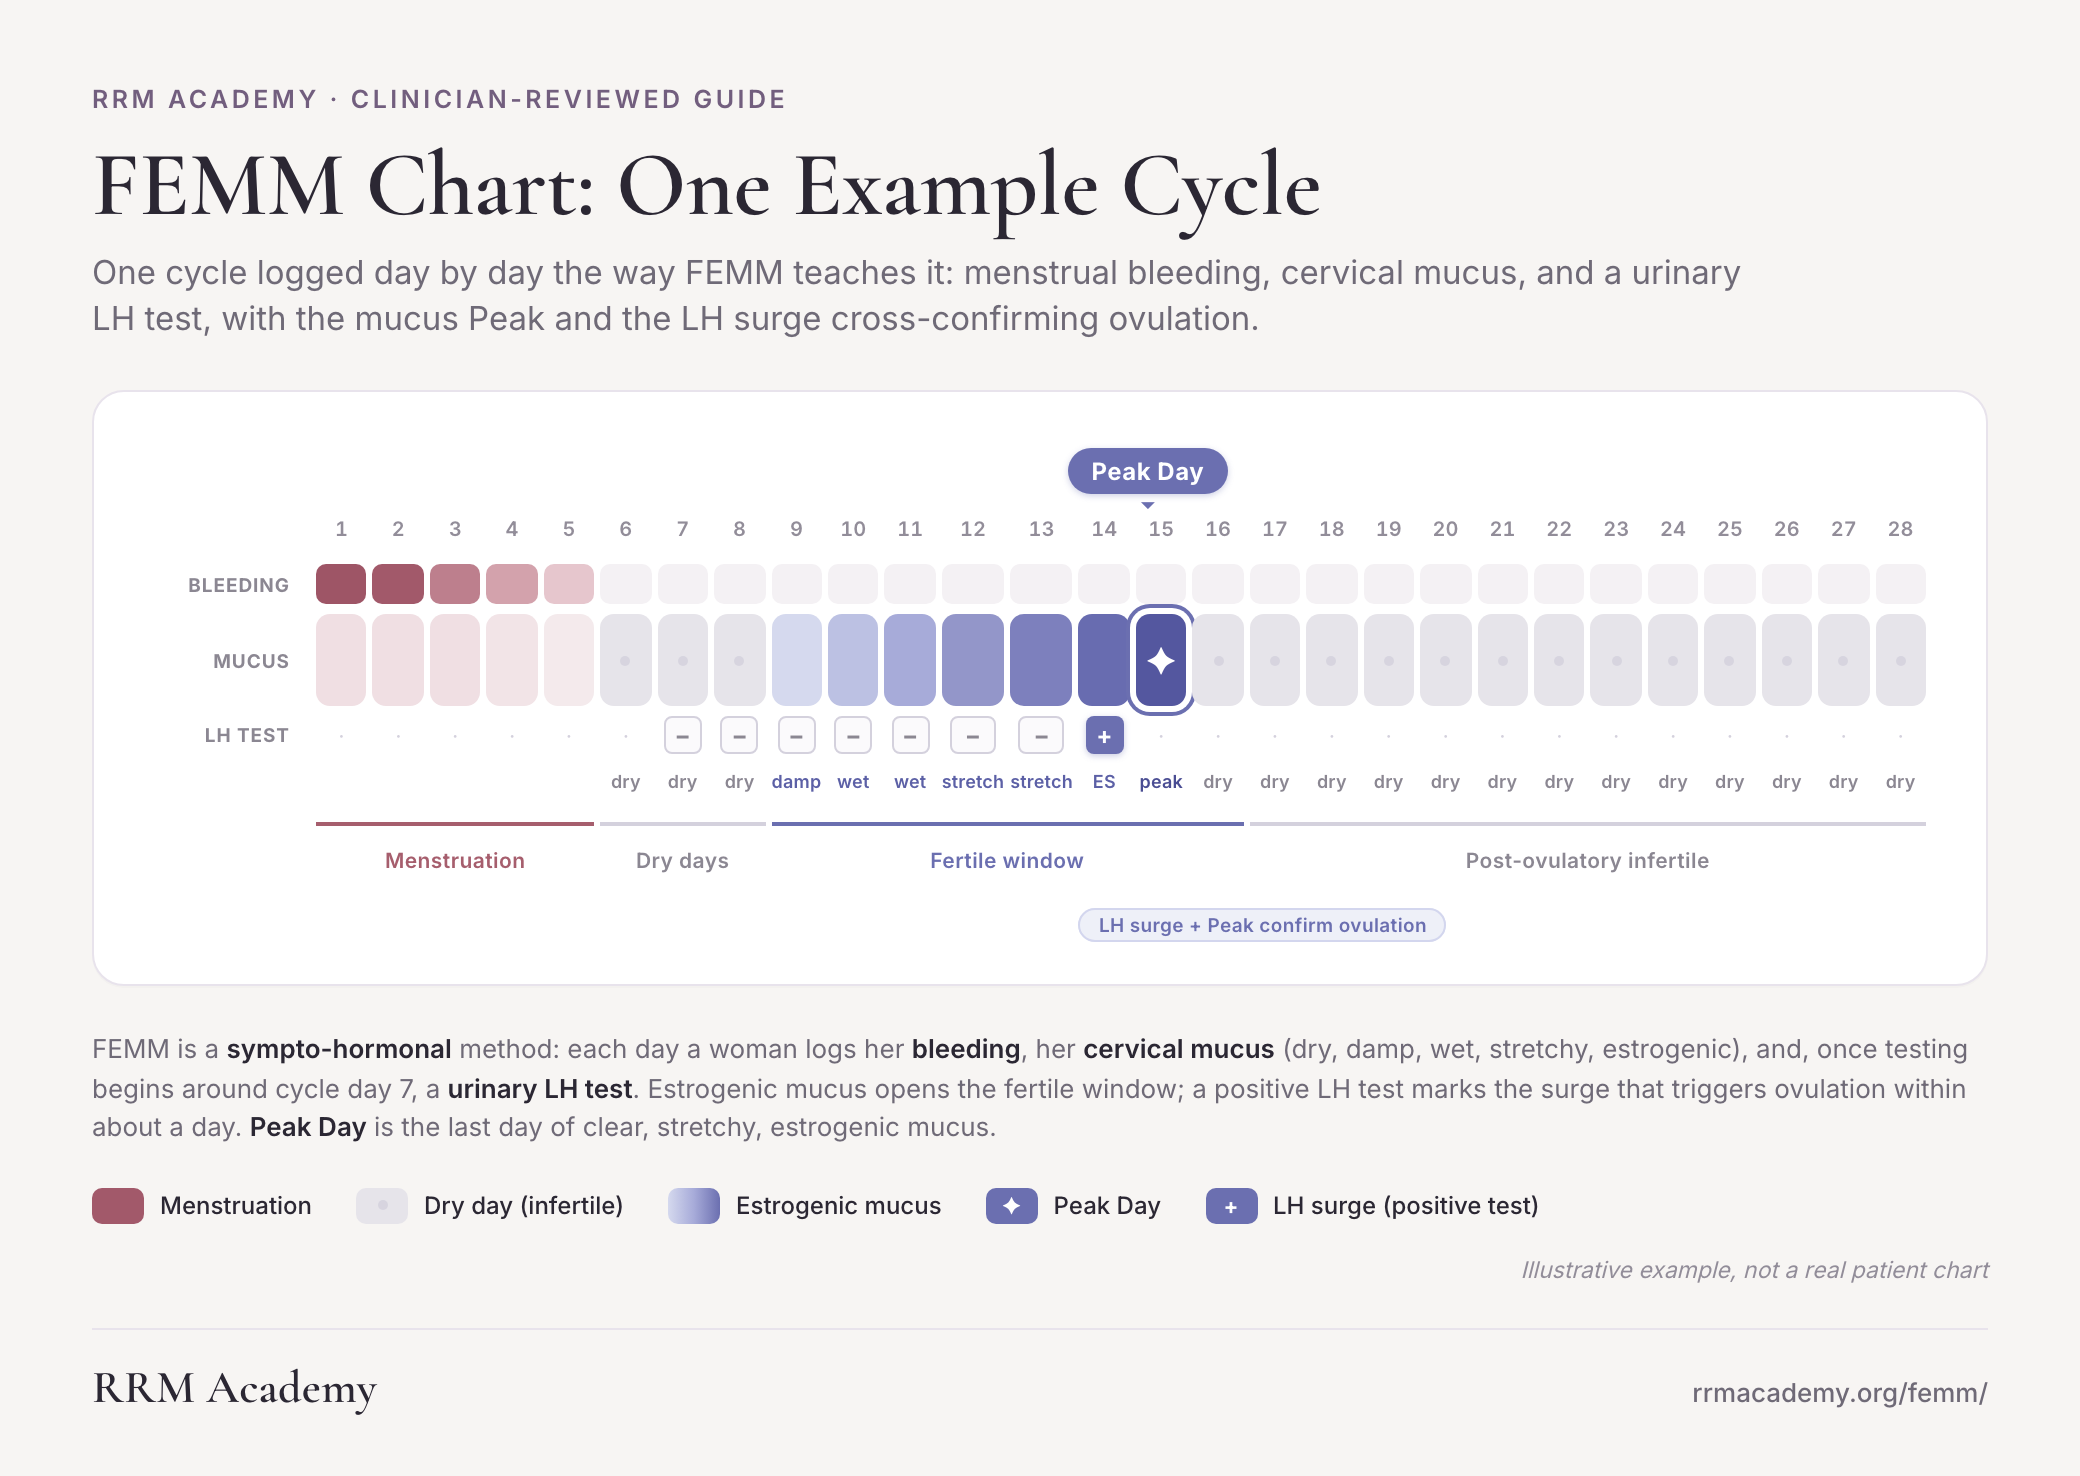
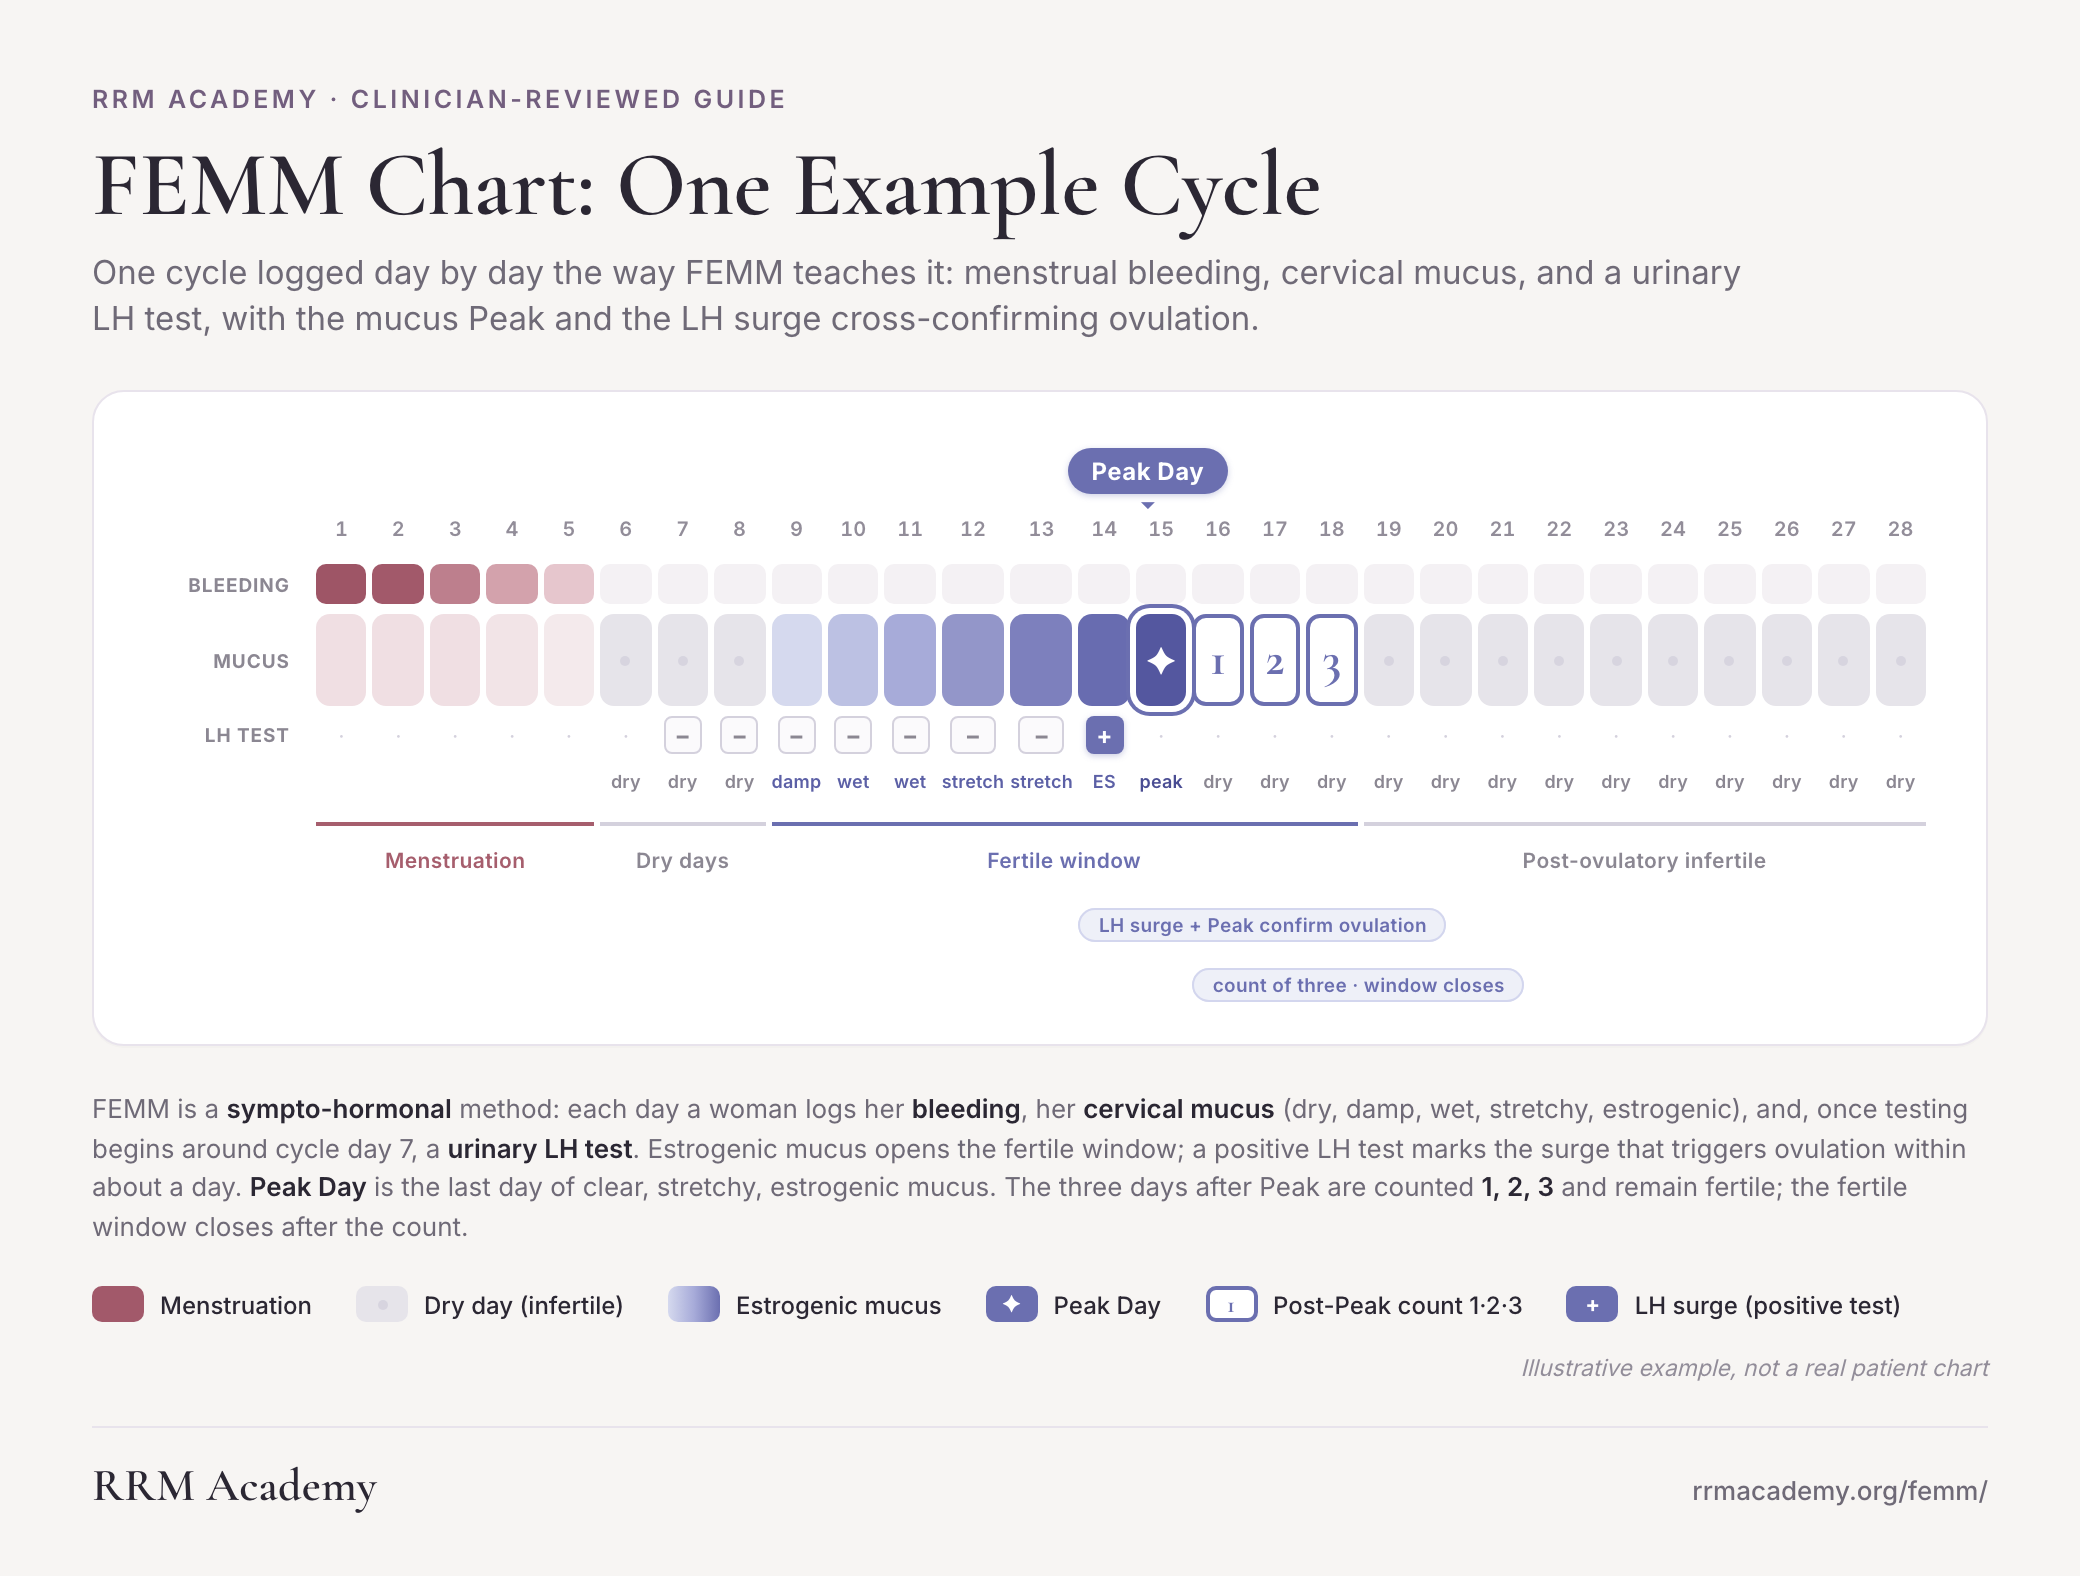
FEMM chart corrected per FEMM-teacher review (post-Peak count of three, post-ovulatory from day 19)
Review round 2 (via Erin's circle): chart omitted FEMM's count of three
after Peak and started the post-ovulatory infertile phase too early.
Fixed: count tiles 1-2-3 on days 16-18, fertile window bracket 9-18,
post-ovulatory 19-28, count pill + legend entry, caption/alt/figcaption
and internal description updated, assets re-rendered (2080x1576).

Claude-Session: https://claude.ai/code/session_014dCjP8zqmsNHfFnb3NziUY

diff --git a/docs/handoffs/assets/2026-07-10-fabm-charts/femm-chart-example.html b/docs/handoffs/assets/2026-07-10-fabm-charts/femm-chart-example.html
@@ -44,7 +44,9 @@
   .mlab{grid-row:4}
   .mtile{grid-row:4;height:46px;border-radius:7px;position:relative;display:flex;align-items:center;justify-content:center}
   .m-peak{box-shadow:0 0 0 3px #fff,0 0 0 5px var(--femm)}
+  .m-count{border:2px solid var(--femm)}
   .star{color:#fff;font-size:19px;line-height:1}
+  .badge{font-family:'Cormorant Garamond',serif;font-weight:700;font-size:24px;color:var(--femm);line-height:1}
   .ddot{width:5px;height:5px;border-radius:999px;background:var(--gray-line);opacity:.85}
 
   /* LH test row (row 5) */
@@ -70,6 +72,7 @@
   /* sub caption (row 8) */
   .cbrk{grid-row:8;margin-top:7px;text-align:center}
   .cbrk span{font-size:9.5px;font-weight:600;color:var(--femm);letter-spacing:.02em;white-space:nowrap;background:#eef0f8;border:1px solid #d3d6ee;padding:2px 9px;border-radius:999px}
+  .cbrk-b{grid-row:9;margin-top:5px}
 
   .teach{margin-top:22px;font-size:13px;line-height:1.5;color:var(--muted);max-width:955px}
   .teach b{color:var(--ink);font-weight:600}
@@ -80,6 +83,8 @@
   .sw-ramp{background:linear-gradient(90deg,#d5d9ee,#a7abd9,#6b6fb0)}
   .sw-peak{background:var(--femm)}
   .sw-peak .star{font-size:12px}
+  .sw-count{background:#fff;border:2px solid var(--femm)}
+  .sw-count .badge{font-size:12px}
   .sw-pos{background:var(--femm);color:#fff;font-size:11px;font-weight:700}
   .illus{margin-left:auto;font-size:11.5px;font-style:italic;color:var(--faint)}
 
@@ -107,7 +112,7 @@
 
         <!-- mucus row (hero) -->
         <div class="rowlab mlab" style="grid-column:1">Mucus</div>
-        <div class="mtile" style="grid-column:2;background:#f0dfe3"></div><div class="mtile" style="grid-column:3;background:#f0dfe3"></div><div class="mtile" style="grid-column:4;background:#f0dfe3"></div><div class="mtile" style="grid-column:5;background:#f2e4e7"></div><div class="mtile" style="grid-column:6;background:#f4eaec"></div><div class="mtile" style="grid-column:7;background:#e6e4ea"><span class="ddot"></span></div><div class="mtile" style="grid-column:8;background:#e6e4ea"><span class="ddot"></span></div><div class="mtile" style="grid-column:9;background:#e6e4ea"><span class="ddot"></span></div><div class="mtile" style="grid-column:10;background:#d5d9ee"></div><div class="mtile" style="grid-column:11;background:#bcc1e3"></div><div class="mtile" style="grid-column:12;background:#a7abd9"></div><div class="mtile" style="grid-column:13;background:#9396c9"></div><div class="mtile" style="grid-column:14;background:#7d80bd"></div><div class="mtile" style="grid-column:15;background:#686cb0"></div><div class="mtile m-peak" style="grid-column:16;background:#54579f"><span class="star">&#10022;</span></div><div class="mtile" style="grid-column:17;background:#e6e4ea"><span class="ddot"></span></div><div class="mtile" style="grid-column:18;background:#e6e4ea"><span class="ddot"></span></div><div class="mtile" style="grid-column:19;background:#e6e4ea"><span class="ddot"></span></div><div class="mtile" style="grid-column:20;background:#e6e4ea"><span class="ddot"></span></div><div class="mtile" style="grid-column:21;background:#e6e4ea"><span class="ddot"></span></div><div class="mtile" style="grid-column:22;background:#e6e4ea"><span class="ddot"></span></div><div class="mtile" style="grid-column:23;background:#e6e4ea"><span class="ddot"></span></div><div class="mtile" style="grid-column:24;background:#e6e4ea"><span class="ddot"></span></div><div class="mtile" style="grid-column:25;background:#e6e4ea"><span class="ddot"></span></div><div class="mtile" style="grid-column:26;background:#e6e4ea"><span class="ddot"></span></div><div class="mtile" style="grid-column:27;background:#e6e4ea"><span class="ddot"></span></div><div class="mtile" style="grid-column:28;background:#e6e4ea"><span class="ddot"></span></div><div class="mtile" style="grid-column:29;background:#e6e4ea"><span class="ddot"></span></div>
+        <div class="mtile" style="grid-column:2;background:#f0dfe3"></div><div class="mtile" style="grid-column:3;background:#f0dfe3"></div><div class="mtile" style="grid-column:4;background:#f0dfe3"></div><div class="mtile" style="grid-column:5;background:#f2e4e7"></div><div class="mtile" style="grid-column:6;background:#f4eaec"></div><div class="mtile" style="grid-column:7;background:#e6e4ea"><span class="ddot"></span></div><div class="mtile" style="grid-column:8;background:#e6e4ea"><span class="ddot"></span></div><div class="mtile" style="grid-column:9;background:#e6e4ea"><span class="ddot"></span></div><div class="mtile" style="grid-column:10;background:#d5d9ee"></div><div class="mtile" style="grid-column:11;background:#bcc1e3"></div><div class="mtile" style="grid-column:12;background:#a7abd9"></div><div class="mtile" style="grid-column:13;background:#9396c9"></div><div class="mtile" style="grid-column:14;background:#7d80bd"></div><div class="mtile" style="grid-column:15;background:#686cb0"></div><div class="mtile m-peak" style="grid-column:16;background:#54579f"><span class="star">&#10022;</span></div><div class="mtile m-count" style="grid-column:17;background:#ffffff"><span class="badge">1</span></div><div class="mtile m-count" style="grid-column:18;background:#ffffff"><span class="badge">2</span></div><div class="mtile m-count" style="grid-column:19;background:#ffffff"><span class="badge">3</span></div><div class="mtile" style="grid-column:20;background:#e6e4ea"><span class="ddot"></span></div><div class="mtile" style="grid-column:21;background:#e6e4ea"><span class="ddot"></span></div><div class="mtile" style="grid-column:22;background:#e6e4ea"><span class="ddot"></span></div><div class="mtile" style="grid-column:23;background:#e6e4ea"><span class="ddot"></span></div><div class="mtile" style="grid-column:24;background:#e6e4ea"><span class="ddot"></span></div><div class="mtile" style="grid-column:25;background:#e6e4ea"><span class="ddot"></span></div><div class="mtile" style="grid-column:26;background:#e6e4ea"><span class="ddot"></span></div><div class="mtile" style="grid-column:27;background:#e6e4ea"><span class="ddot"></span></div><div class="mtile" style="grid-column:28;background:#e6e4ea"><span class="ddot"></span></div><div class="mtile" style="grid-column:29;background:#e6e4ea"><span class="ddot"></span></div>
 
         <!-- LH test row -->
         <div class="rowlab llab" style="grid-column:1">LH test</div>
@@ -119,21 +124,23 @@
         <!-- phase brackets -->
         <div class="brk brk-rose" style="grid-column:2 / 7"><span>Menstruation</span></div>
         <div class="brk brk-gray" style="grid-column:7 / 10"><span>Dry days</span></div>
-        <div class="brk brk-femm" style="grid-column:10 / 18"><span>Fertile window</span></div>
-        <div class="brk brk-gray" style="grid-column:18 / 30"><span>Post-ovulatory infertile</span></div>
+        <div class="brk brk-femm" style="grid-column:10 / 20"><span>Fertile window</span></div>
+        <div class="brk brk-gray" style="grid-column:20 / 30"><span>Post-ovulatory infertile</span></div>
 
         <!-- sub caption -->
         <div class="cbrk" style="grid-column:15 / 18"><span>LH surge + Peak confirm ovulation</span></div>
+        <div class="cbrk cbrk-b" style="grid-column:17 / 20"><span>count of three &middot; window closes</span></div>
       </div>
     </div>
 
-    <p class="teach">FEMM is a <b>sympto-hormonal</b> method: each day a woman logs her <b>bleeding</b>, her <b>cervical mucus</b> (dry, damp, wet, stretchy, estrogenic), and, once testing begins around cycle day 7, a <b>urinary LH test</b>. Estrogenic mucus opens the fertile window; a positive LH test marks the surge that triggers ovulation within about a day. <b>Peak Day</b> is the last day of clear, stretchy, estrogenic mucus.</p>
+    <p class="teach">FEMM is a <b>sympto-hormonal</b> method: each day a woman logs her <b>bleeding</b>, her <b>cervical mucus</b> (dry, damp, wet, stretchy, estrogenic), and, once testing begins around cycle day 7, a <b>urinary LH test</b>. Estrogenic mucus opens the fertile window; a positive LH test marks the surge that triggers ovulation within about a day. <b>Peak Day</b> is the last day of clear, stretchy, estrogenic mucus. The three days after Peak are counted <b>1, 2, 3</b> and remain fertile; the fertile window closes after the count.</p>
 
     <div class="legendrow">
       <div class="leg"><span class="sw" style="background:#a2596a"></span>Menstruation</div>
       <div class="leg"><span class="sw" style="background:var(--gray)"><span class="ddot"></span></span>Dry day (infertile)</div>
       <div class="leg"><span class="sw sw-ramp"></span>Estrogenic mucus</div>
       <div class="leg"><span class="sw sw-peak"><span class="star">&#10022;</span></span>Peak Day</div>
+      <div class="leg"><span class="sw sw-count"><span class="badge">1</span></span>Post-Peak count 1&middot;2&middot;3</div>
       <div class="leg"><span class="sw sw-pos">+</span>LH surge (positive test)</div>
       <span class="illus">Illustrative example, not a real patient chart</span>
     </div>

diff --git a/docs/handoffs/2026-07-10-fabm-method-charts.md b/docs/handoffs/2026-07-10-fabm-method-charts.md
@@ -42,6 +42,17 @@ Rebecca replied with Boston Cross Check's official standard example chart (Read 
 - Caption sentence now: "The fertile window closes on the evening of the fourth day after Peak Day, once the temperature shift confirms."
 Accepted as defensible simplifications (unchanged): no LH/cervix/progesterone rows; sign-based day-9 opening vs their calculated day-8 opening. Our page prose asserts no numeric rules, so no page edits needed. Open: whether to DM Rebecca the corrected chart (Brian's call). Erin (FEMM) has not replied yet.
 
+## Expert review round 2: FEMM teacher (2026-07-10 evening)
+
+FEMM teacher feedback (via Erin's circle, relayed by Brian): the chart omitted FEMM's count of three after Peak Day and started the post-ovulatory infertile phase before day 19. CORRECTED same day in this branch's assets:
+- Added count tiles 1, 2, 3 on days 16-18.
+- Moved the fertile-window bracket to days 9-18 and the post-ovulatory infertile bracket to start day 19.
+- Added a "count of three · window closes" pill and a sixth legend entry, "Post-Peak count 1·2·3."
+- Updated the teaching caption, alt text, and figcaption to name the count.
+- Re-rendered the chart assets.
+
+Resolves the residual-minor note summary.json had carried since the initial build (that note is removed in this same commit; see git history).
+
 ## SCHEDULED: Boston Cross-Check chart go-live 2026-07-12 09:07 ET (Brian's explicit go, 2026-07-10)
 
 Brian: "lets push this particular image to live in two days" = the BCC chart ONLY; the other 6 stay gated. Brian-gated plan APPROVED (15/15, two minors applied). Mechanics:
